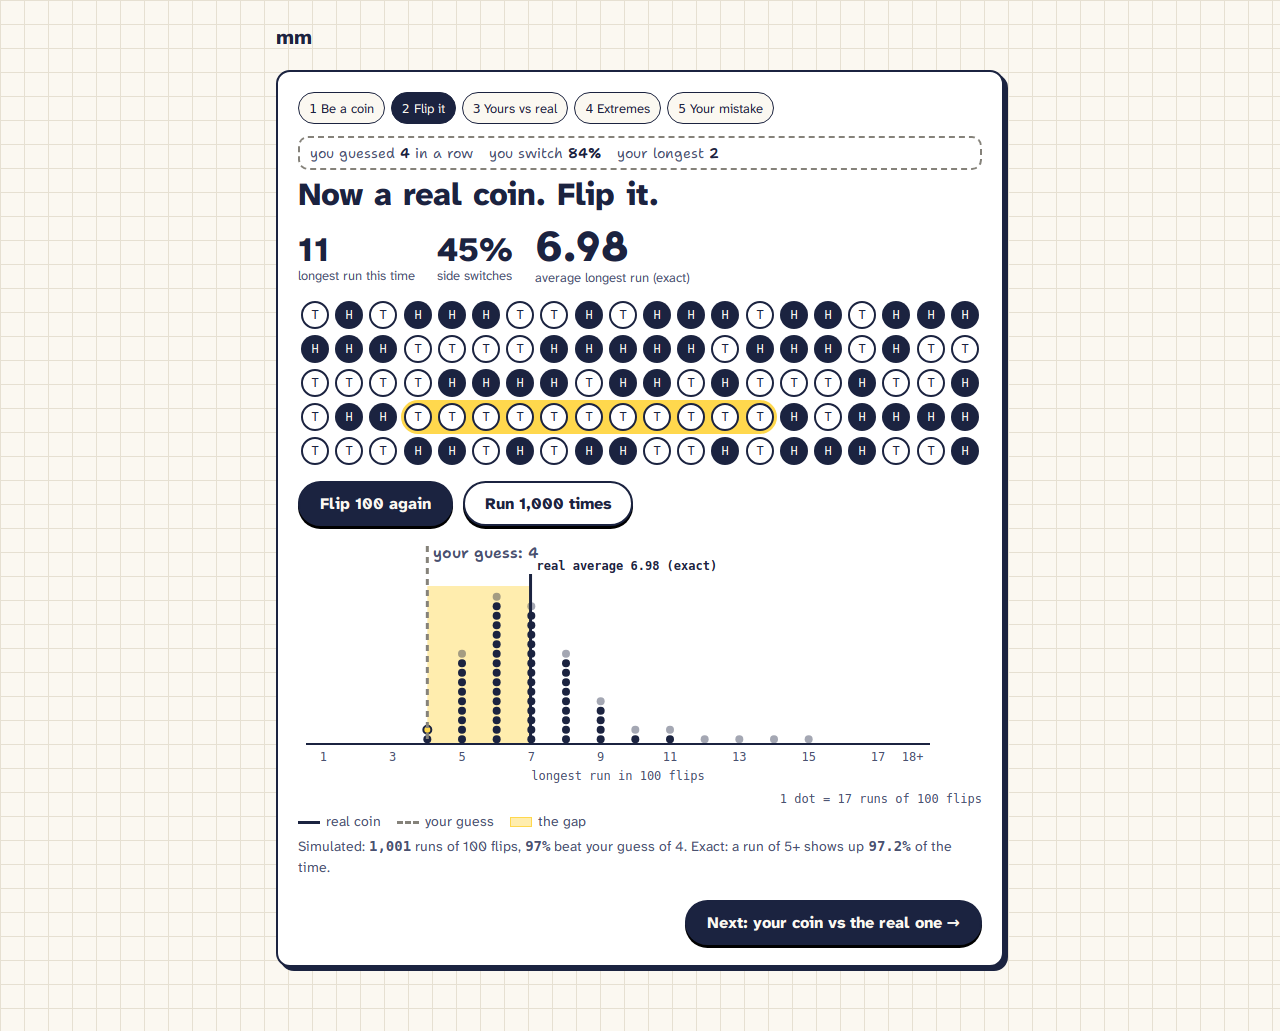
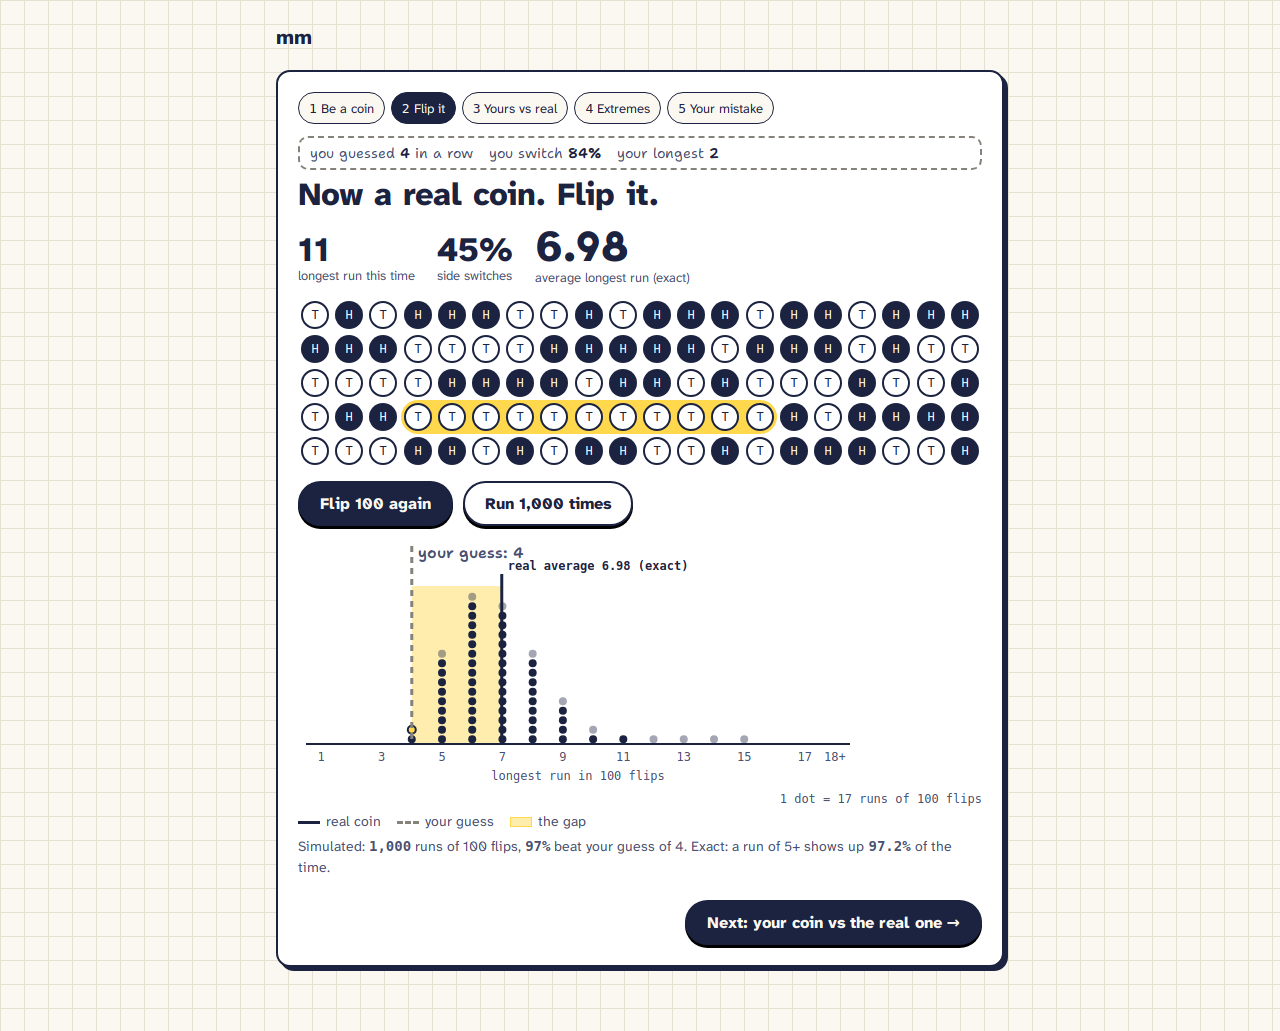
Coin: run 1,000 starts a fresh sample so the count reads 1,000

Changed region(s): [[0.3125, 0.5276, 0.5938, 0.7759], [0.6875, 0.7139, 0.7188, 0.7449], [0.625, 0.7139, 0.6562, 0.7449]]

diff --git a/web/src/sessions/coin/CoinSession.test.tsx b/web/src/sessions/coin/CoinSession.test.tsx
@@ -35,7 +35,7 @@ describe('coin streak session', () => {
     expect(screen.getByText('97.2%')).toBeTruthy() // exact P(run of 5+)
     expect(screen.getByText(/real average 6\.98 \(exact\)/)).toBeTruthy() // truth line is labeled
     fireEvent.click(screen.getByText('Run 1,000 times'))
-    expect(screen.getByText('1,001')).toBeTruthy() // the first flip + 1,000 simulated
+    expect(screen.getByText('1,000')).toBeTruthy() // a fresh sample of exactly 1,000
 
     next(/your coin vs the real one/)
     expect(screen.getByText('Your coin vs the real coin')).toBeTruthy()

diff --git a/web/src/sessions/coin/CoinSession.tsx b/web/src/sessions/coin/CoinSession.tsx
@@ -103,7 +103,10 @@ export function CoinSession({ onDone }: { onDone: () => void }) {
     addTrials([longestRun(s)])
   }
 
+  // A fresh sample of exactly 1,000, so the count reads 1,000 (not 1,000 plus the strips flipped so far).
   const run1k = () => {
+    setHist(new Array(KMAX + 1).fill(0))
+    setTotal(0)
     if (reducedMotion()) {
       addTrials(Array.from({ length: 1000 }, () => longestOfFlips(N, rand.current)))
       return
